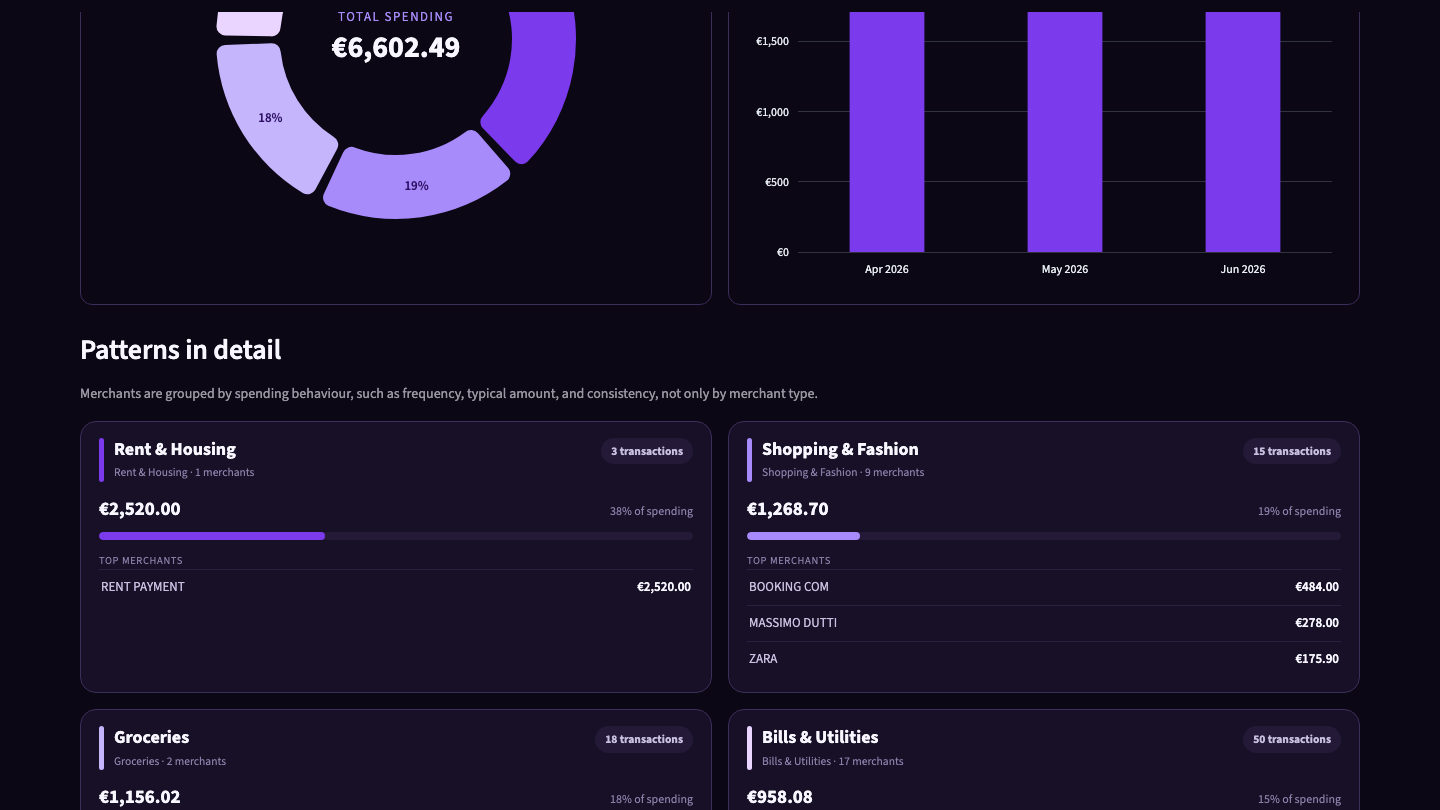
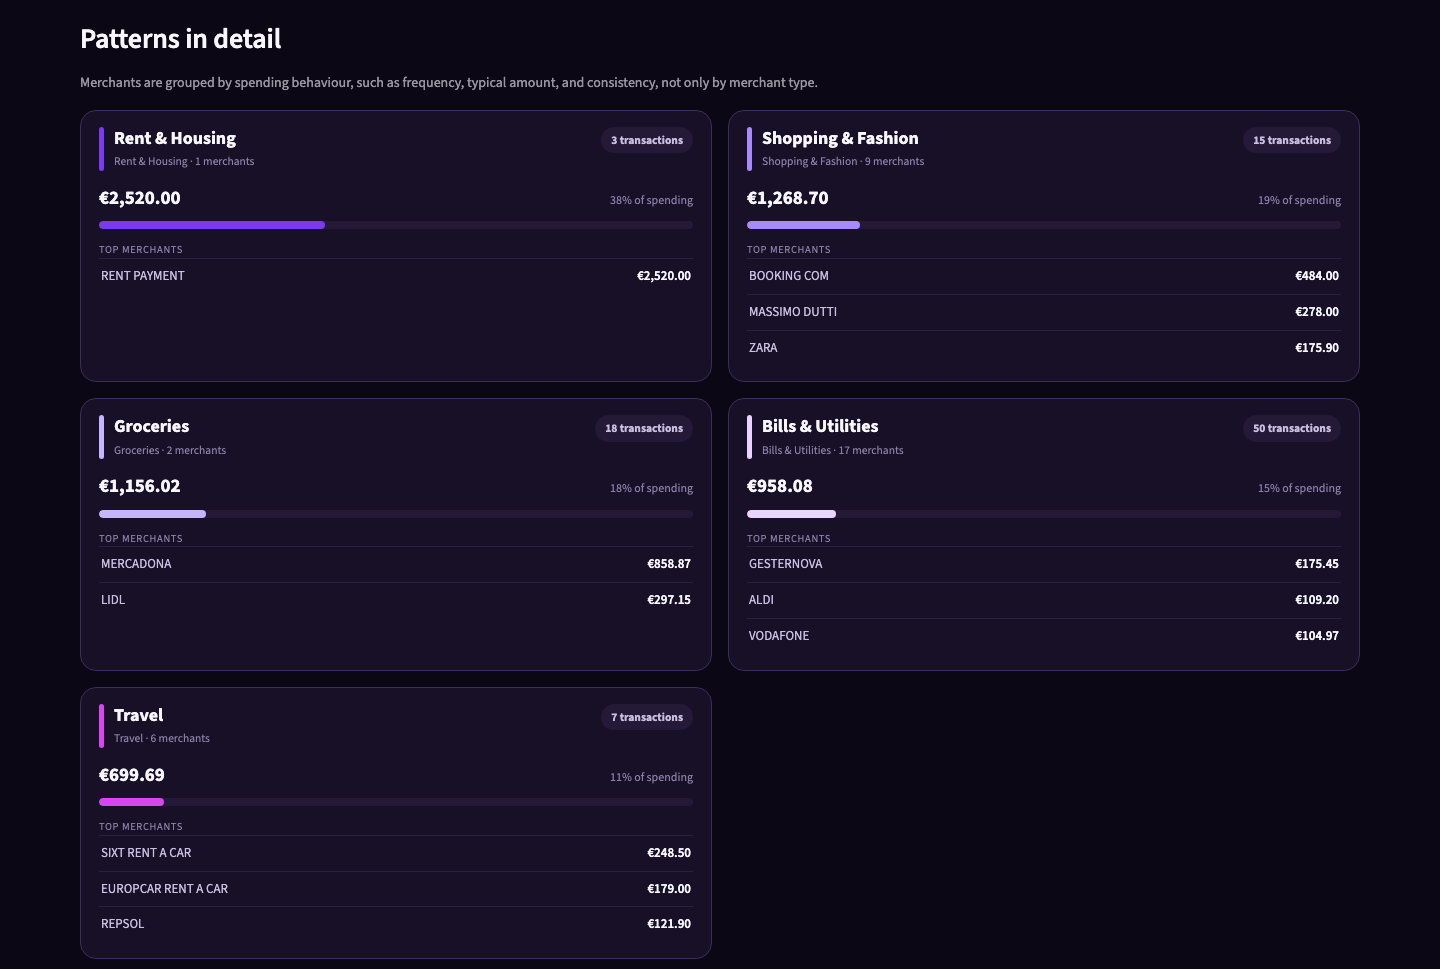
Show full pattern cards, drop AI summary screenshot, Core Features as list
Replaces the patterns screenshot with one that shows all five cards in
full instead of cutting the bottom row off, converts Core Features back
to a plain bullet list, and removes the AI summary screenshot.

diff --git a/README.md b/README.md
@@ -16,13 +16,11 @@ AI Personal Finance Assistant transforms raw transaction data into clear spendin
 
 ## ✨ Core Features
 
-| Feature | Description |
-|---|---|
-| **Reveal the habits behind the transactions** | The app identifies up to five spending patterns using frequency, typical amount, timing, and consistency, not merchant names alone |
-| **Turn data into a clear story** | GPT-5.6 gives each pattern a meaningful label and writes a plain-English summary |
-| **See change over time** | Compare the last month, three months, six months, or your full history without redefining the underlying patterns |
-| **Use the app anywhere** | Explore your spending patterns comfortably on a computer, tablet, or mobile phone |
-| **Keep your data private** | Files are processed in memory and never stored. AI receives only aggregated pattern evidence. Never raw transaction history |
+- **Reveal the habits behind the transactions.** The app identifies up to five spending patterns using frequency, typical amount, timing, and consistency, not merchant names alone.
+- **Turn data into a clear story.** GPT-5.6 gives each pattern a meaningful label and writes a plain-English summary.
+- **See change over time.** Compare the last month, three months, six months, or your full history without redefining the underlying patterns.
+- **Use the app anywhere.** Explore your spending patterns comfortably on a computer, tablet, or mobile phone.
+- **Keep your data private.** Files are processed in memory and never stored. AI receives only aggregated pattern evidence. Never raw transaction history.
 
 ![Patterns in detail](docs/screenshot-patterns.png)
 
@@ -77,8 +75,6 @@ Visit **[your-ai-personal-finance-assistant.streamlit.app](https://your-ai-perso
 | **Clear language** | GPT-5.6 presents insights in natural, conversational language instead of technical terminology |
 | **Currency-aware results** | GPT-5.6 uses the currency detected from the uploaded statement so amounts are presented in the user’s original currency |
 | **Natural merchant names** | GPT-5.6 makes merchant references human-friendly instead of repeating raw bank-statement descriptions |
-
-![AI summary](docs/screenshot-summary.png)
 
 ## 🎥 Demo Video
 
